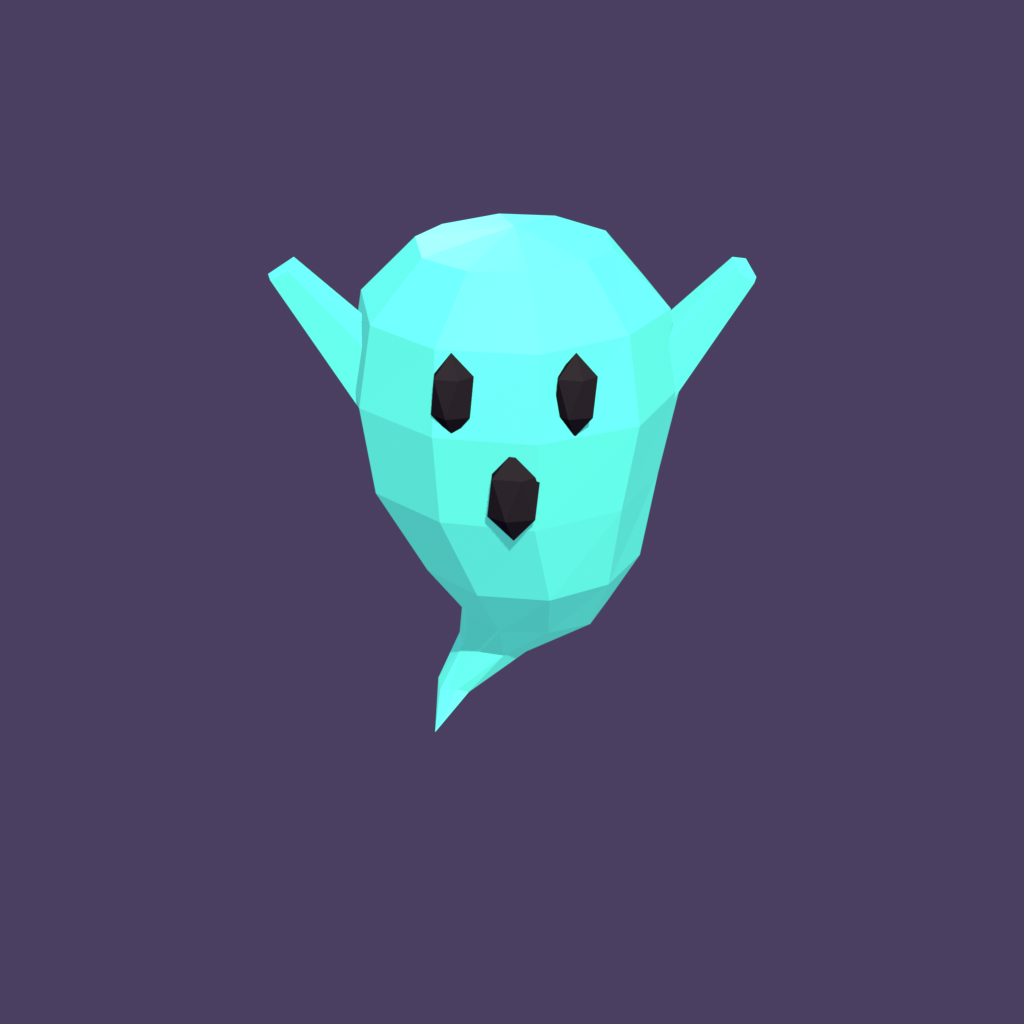
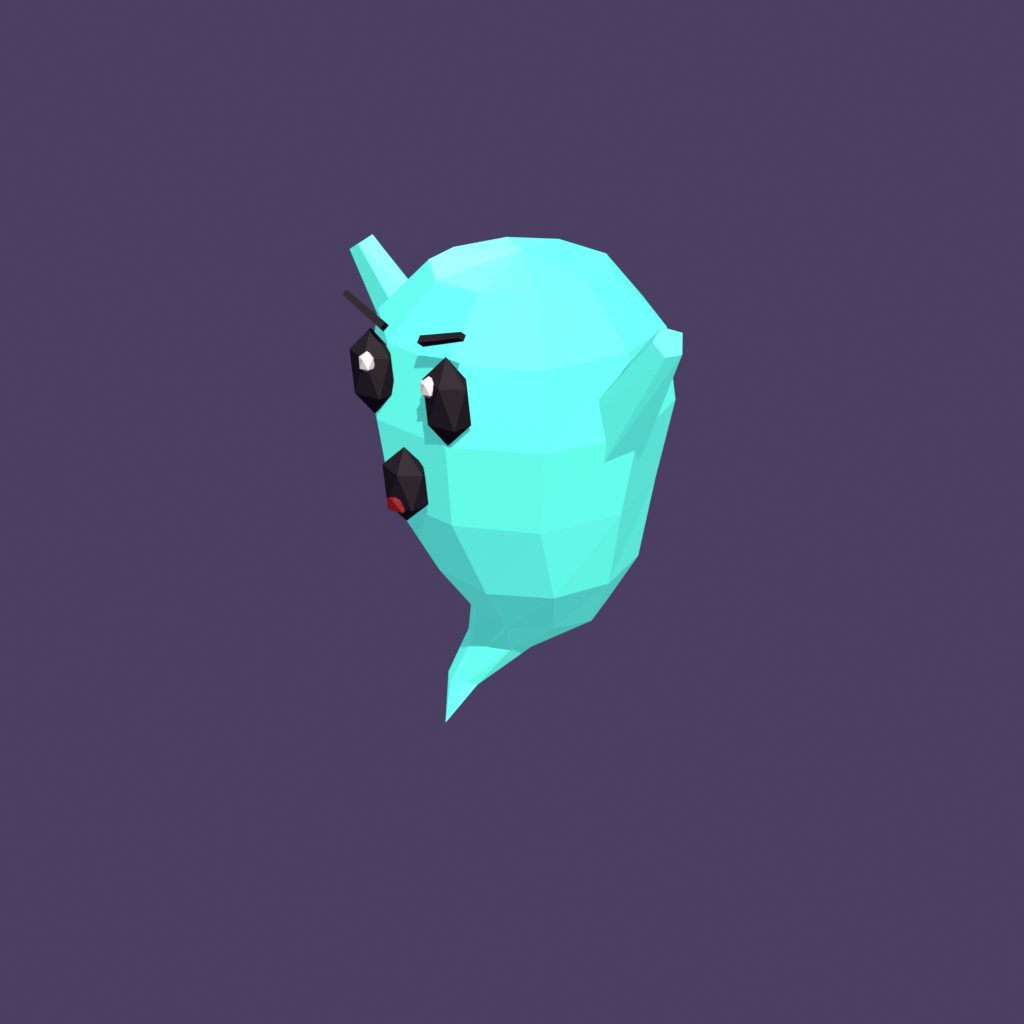
Update showcase: new ghosts and ornate lamp

Changed region(s): [[0.25, 0.1875, 0.75, 0.7188]]

diff --git a/README.md b/README.md
@@ -1,12 +1,12 @@
 # Low Poly Halloween Pack for Roblox
 
-A 68-model Halloween asset pack for Roblox by **sumiii61**.
+A 69-model Halloween asset pack for Roblox by **sumiii61**.
 
 ![All models](media/overview.png)
 
 ## Highlights
 
-- **57 faceted low-poly models,** including a detailed Haunted Chapel and Witch Hut. They share one 256x256 palette texture, so a whole scene uses a single texture.
+- **58 faceted low-poly models,** including a detailed Haunted Chapel, Witch Hut and ornate twin-lantern street lamp. They share one 256x256 palette texture, so a whole scene uses a single texture.
 - **11-model bonus set** with its own textures:
   - a Watching Eye that turns to stare at the nearest player
   - claw-hand statues, a mimic chest, a reaper scythe, cauldrons and mushrooms
@@ -29,7 +29,7 @@ A 68-model Halloween asset pack for Roblox by **sumiii61**.
 | | | | |
 |---|---|---|---|
 | ![](media/models/HauntedHouse_Manor_preview.png) | ![](media/models/JackOLantern_Scary_preview.png) | ![](media/models/Ghost_Wisp_preview.png) | ![](media/models/Cauldron_preview.png) |
-| ![](media/models/Haunted_Chapel_preview.png) | ![](media/models/Witch_Hut_preview.png) | | |
+| ![](media/models/Haunted_Chapel_preview.png) | ![](media/models/Witch_Hut_preview.png) | ![](media/models/Lamp_Post_Ornate_preview.png) | |
 | ![](media/models/AutumnTree_Big_preview.png) | ![](media/models/Mausoleum_preview.png) | ![](media/models/WatchingEye_preview.png) | ![](media/models/ClawHand_Statue_Witch_preview.png) |
 
 ## Get the pack
